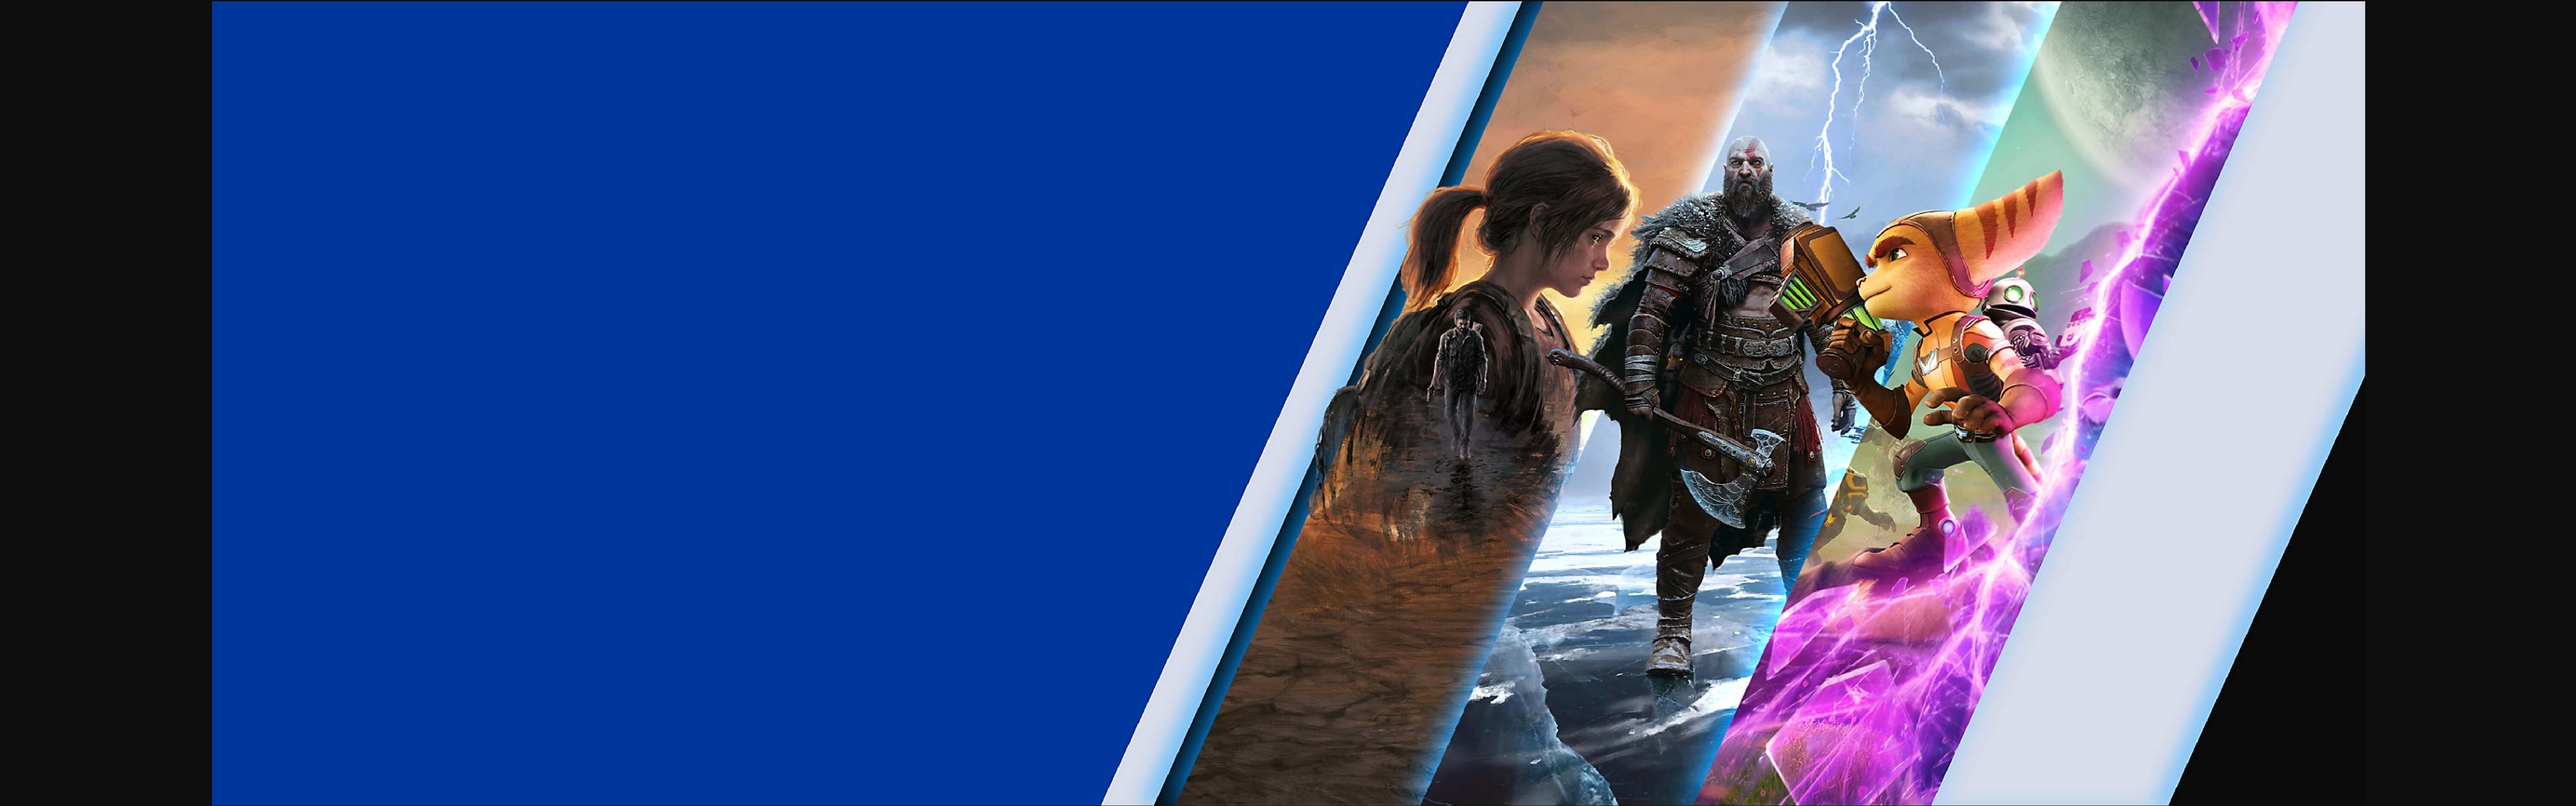
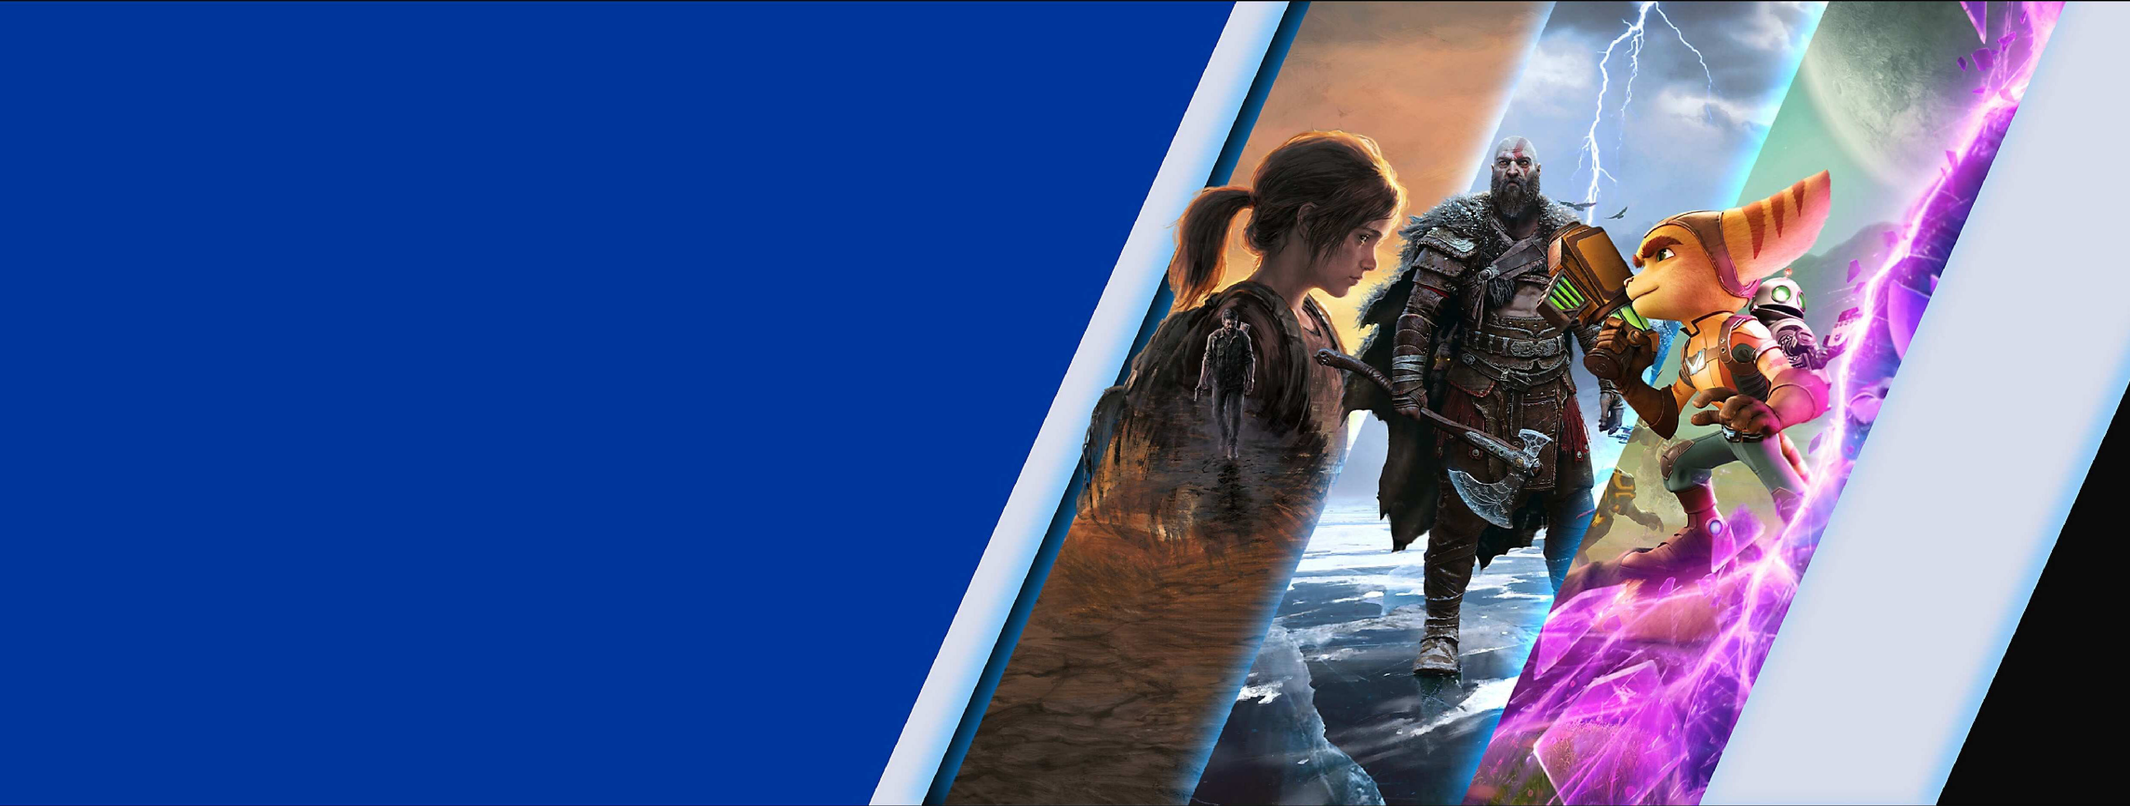
Slight tweaks to the UI to make it more presentable

diff --git a/home/home.css b/home/home.css
@@ -112,6 +112,7 @@
         padding: 0.3rem 0.7rem;
         border-radius: 1rem;
         margin-right: 2rem;
+        font-size: 1rem;
         
     }
     .sign-in:hover {
@@ -267,13 +268,15 @@
         pointer-events: none;
         opacity: 0;
         width: 100%;
-      
     }
 
     .media-images img {
     width: 100%;
     height: 100%;
     object-fit: cover;
+    box-shadow: inset 98px 0px 22px -14px rgba(0,0,0,0.65) ;      
+
+    
     
     }
 
@@ -518,11 +521,15 @@
     .search-icon {
         display: flex;
         position: relative;
+        padding: 0.3rem 0 0 0;
         
+    }
+    .search-icon a {
+        width: 1.5rem;
     }
     #search-img {
         object-fit: contain;
-        height: 1.4rem; 
+        width: 100%;
     }
 
     .search-box {
@@ -2121,6 +2128,8 @@
         }
         .top-nav-right {
             align-items: flex-start;
+            display: flex;
+            align-items: center;
         }
         
         .top-nav-category-item.active > .top-nav-category-button + .top-nav-dropdown-menu {
@@ -2182,12 +2191,6 @@
         .media-text-body span{
             display: inline-block;
             height: 4rem;
-            /* text-overflow: ellipsis;
-            overflow: hidden;
-            white-space: nowrap;
-            width:calc(90%); */
-            
-            
         }
 
         #slider-main-button-1{
@@ -2299,6 +2302,9 @@
         }
         .footer-links-2-container  {
             text-wrap: wrap;
+        }
+        .footer-list-container .header-li {
+            padding: 0 0 0.3rem 0;
         }
       
        
